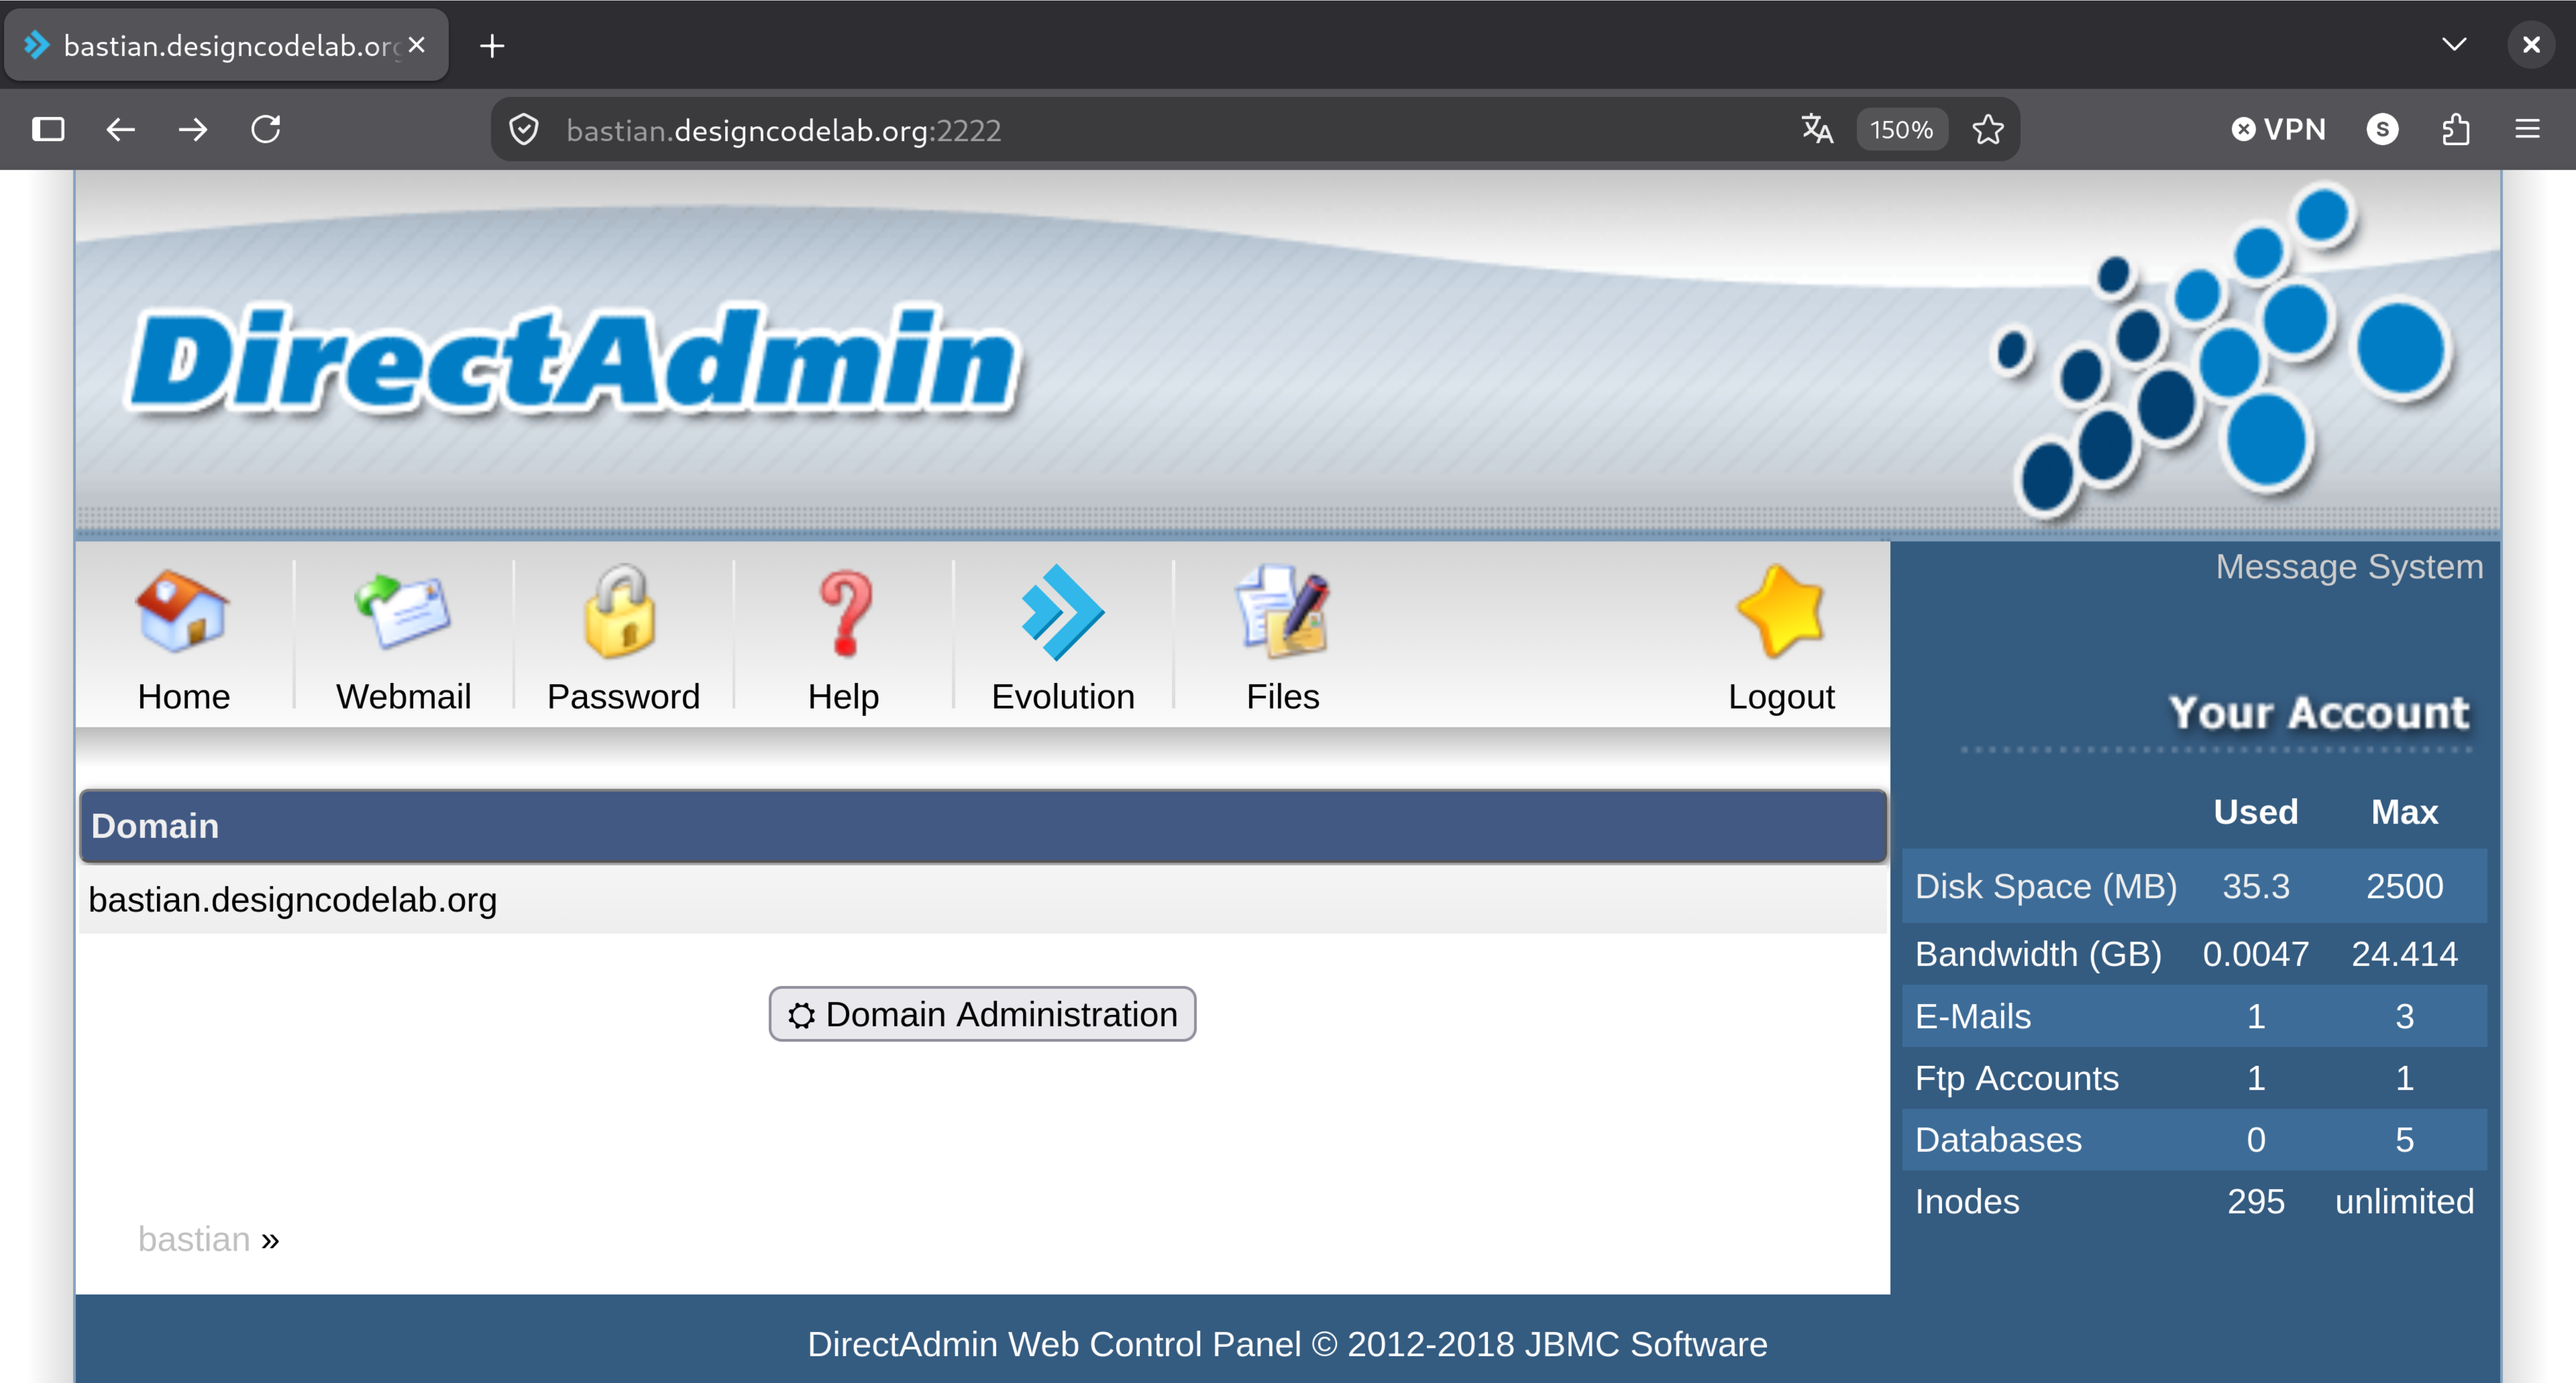
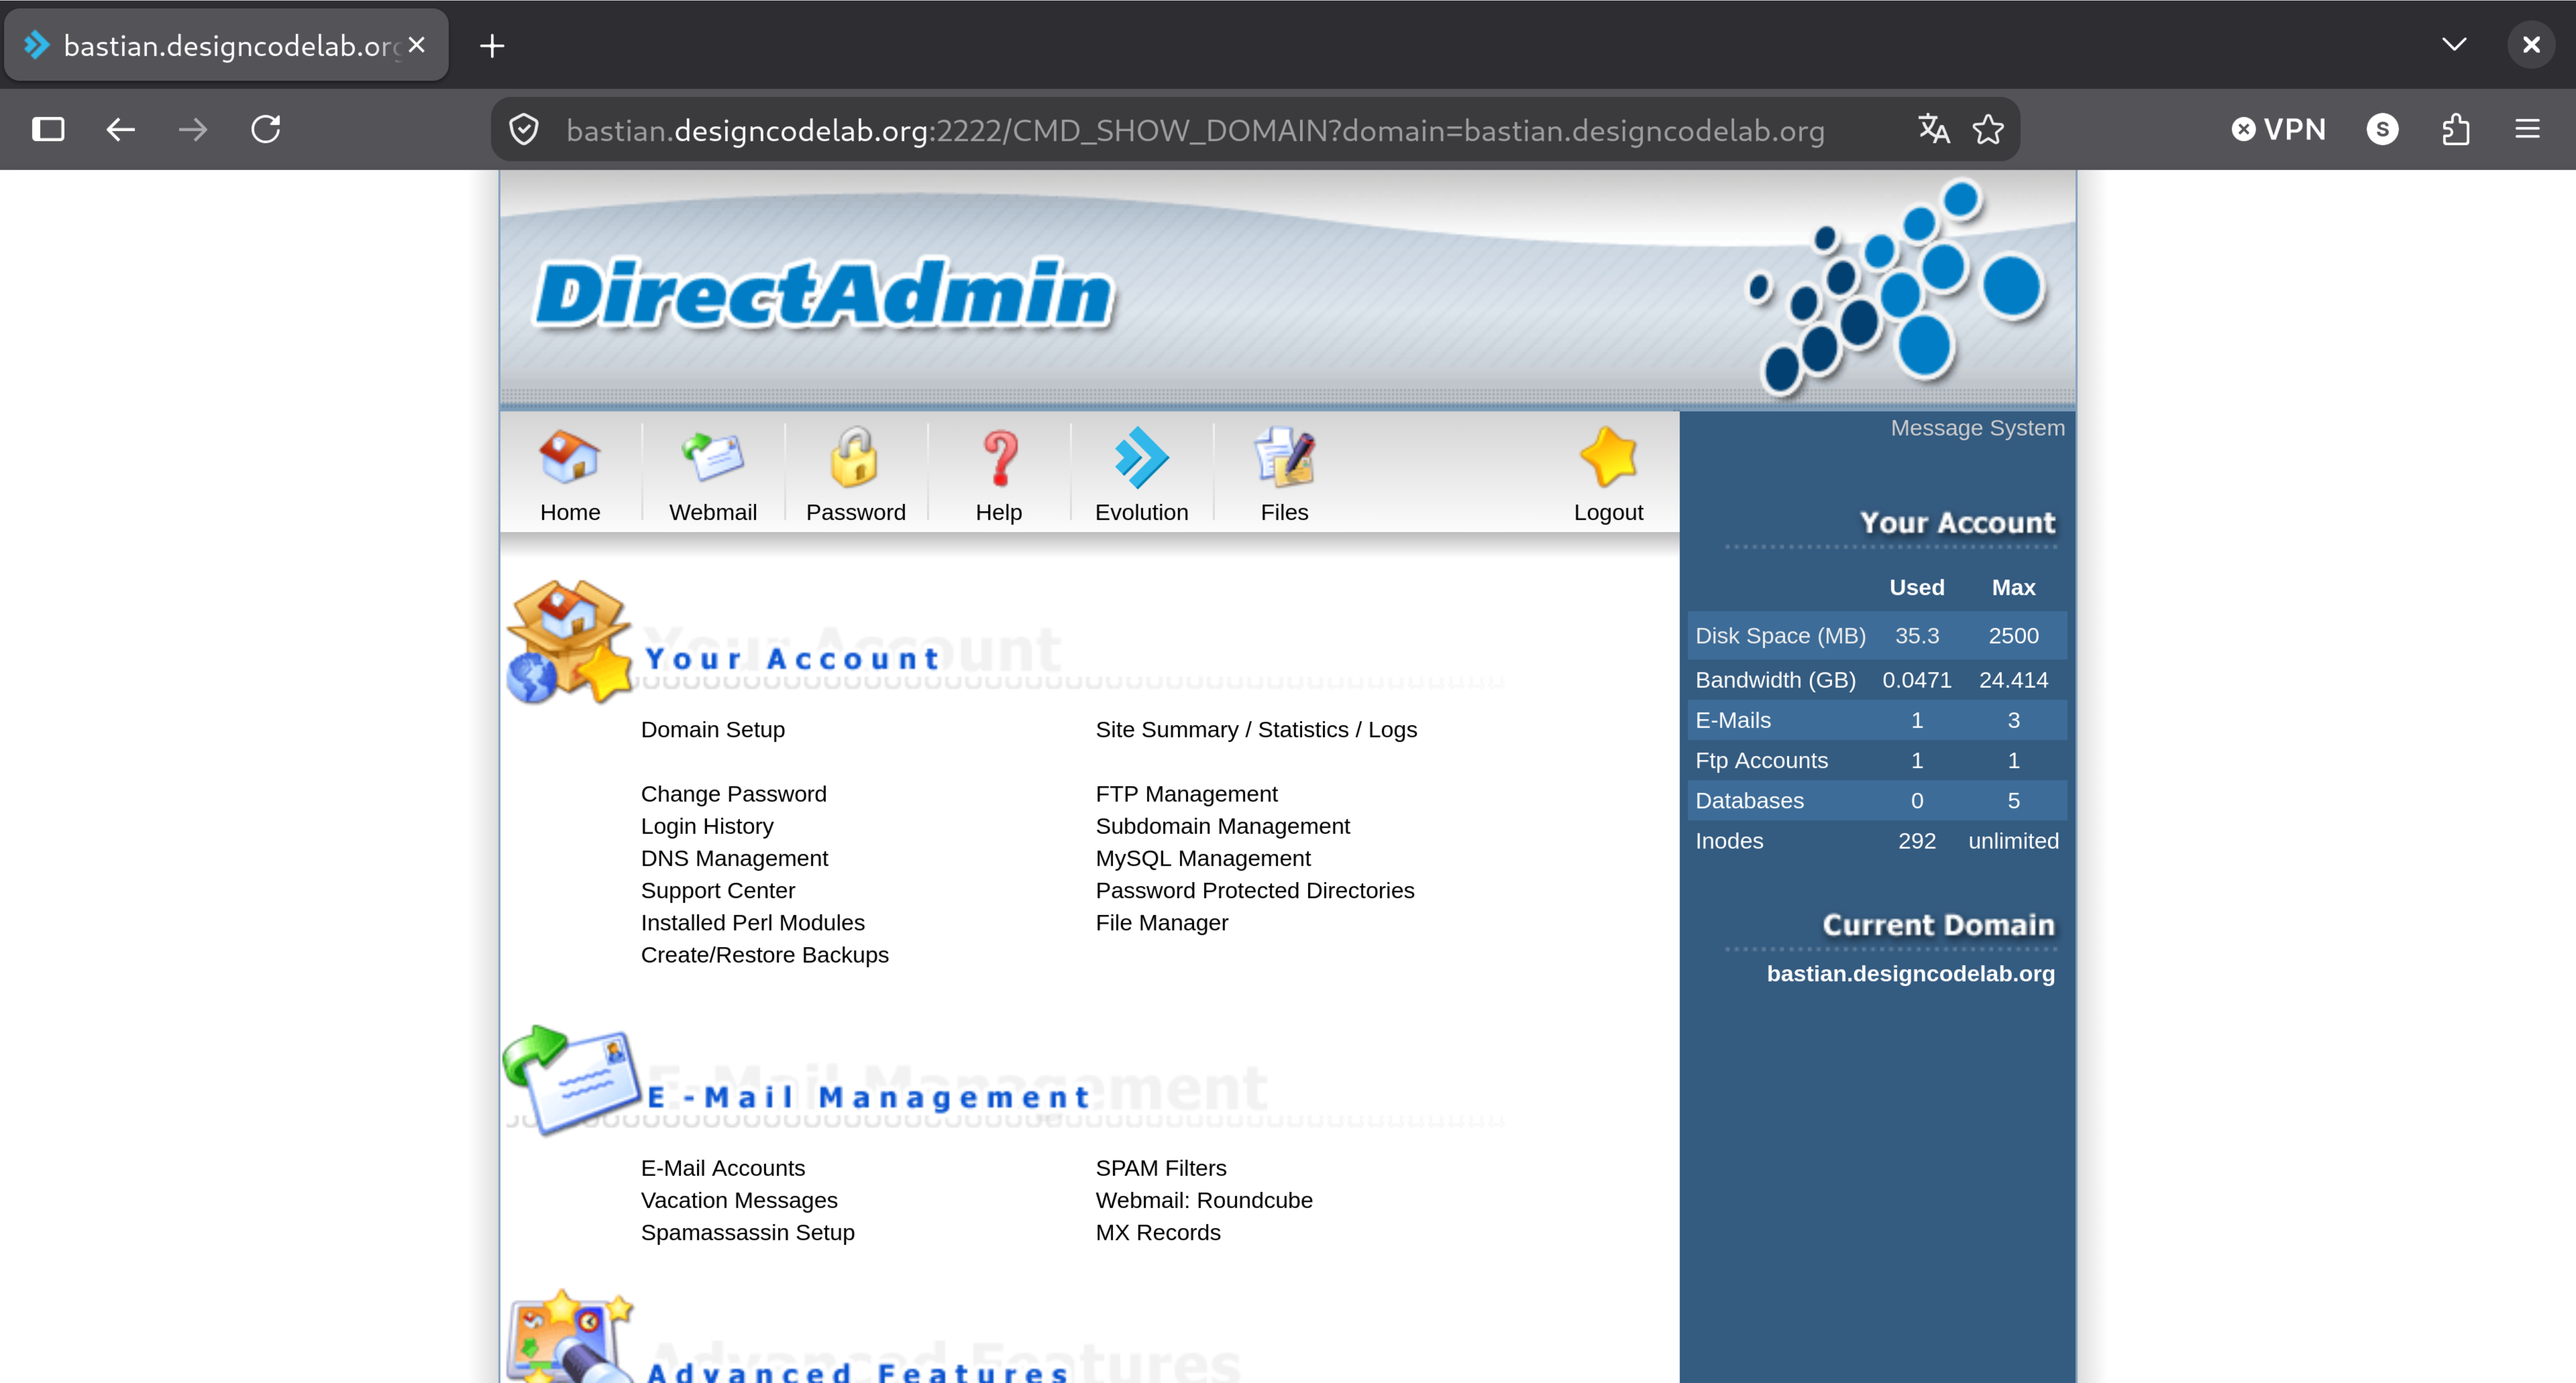
How to get to WordPress Manager in DirectAdmin

diff --git a/intro-wordpress.md b/intro-wordpress.md
@@ -19,13 +19,56 @@ author: "Steven Speek"
 - WordPress is een open source contentmanagementsysteem.
 - Het wordt gebruikt voor websites, blogs, webwinkels en meer.
 - Inhoud en vormgeving worden afzonderlijk beheerd.
-- Via [DirectAdmin](https://docs.directadmin.com/) beheer je jouw WordPress installatie
+<!-- - Via [DirectAdmin](https://docs.directadmin.com/) beheer je jouw WordPress installatie -->
 
 # Overzicht WordPress beheer
+
+- Hoe bereik je het beheer
+- Installatie
+- Back-up
+- Verwijdering
+
+# Naar het beheer
+
+Ga met je browser naar
+
+`<mijn naam>.designcodelab.org:2222/`
+
+## Inloggen
+
+![Inlogscherm van DirectAdmin](images/inlogscherm-directadmin.png)
 
 ## DirectAdmin homepage
 
 ![Homepage van DirectAdmin](images/directadmin-home.png)
+
+## Verder naar Evolution
+
+Klik op
+
+![Evolution logo](images/evolution-logo.png)
+
+## Evolution scherm
+
+![Homepage van Evolution](images/evolution-homepage.png)
+
+## Naar de WordPress Manager
+
+Type `CTRL+J`
+
+En type `Wordpress`
+
+![](images/zoeken-naar-wordpress.png)
+
+Druk op `ENTER`
+
+## WordPress Manager
+
+![Homepage van de WordPress Manager](images/wordpress-manager.png)
+
+## Bewaar dit adres
+ 
+Maak hier een bladwijzer van met `CTRL+D`
 
 # Rondleiding door WordPress
 
@@ -49,13 +92,13 @@ Pages zijn statisch
 
 ## Posts
 
-Eigenschappen van posts:
+### Eigenschappen:
 
 - Voeg je regelmatig toe
 - Vaak getoond met de laatste bovenaan
 - Kun je categorieën en tags aan toekennen
 
-Voorbeelden:
+### Voorbeelden:
 
 - Blog
 - Nieuws
@@ -63,12 +106,12 @@ Voorbeelden:
 
 ## Pages
 
-Eigenschappen van pages:
+### Eigenschappen:
 
 - Tijdloos
 - Vast aantal
 
-Voorbeelden:
+### Voorbeelden:
 
 - Start pagina
 - Over ons
